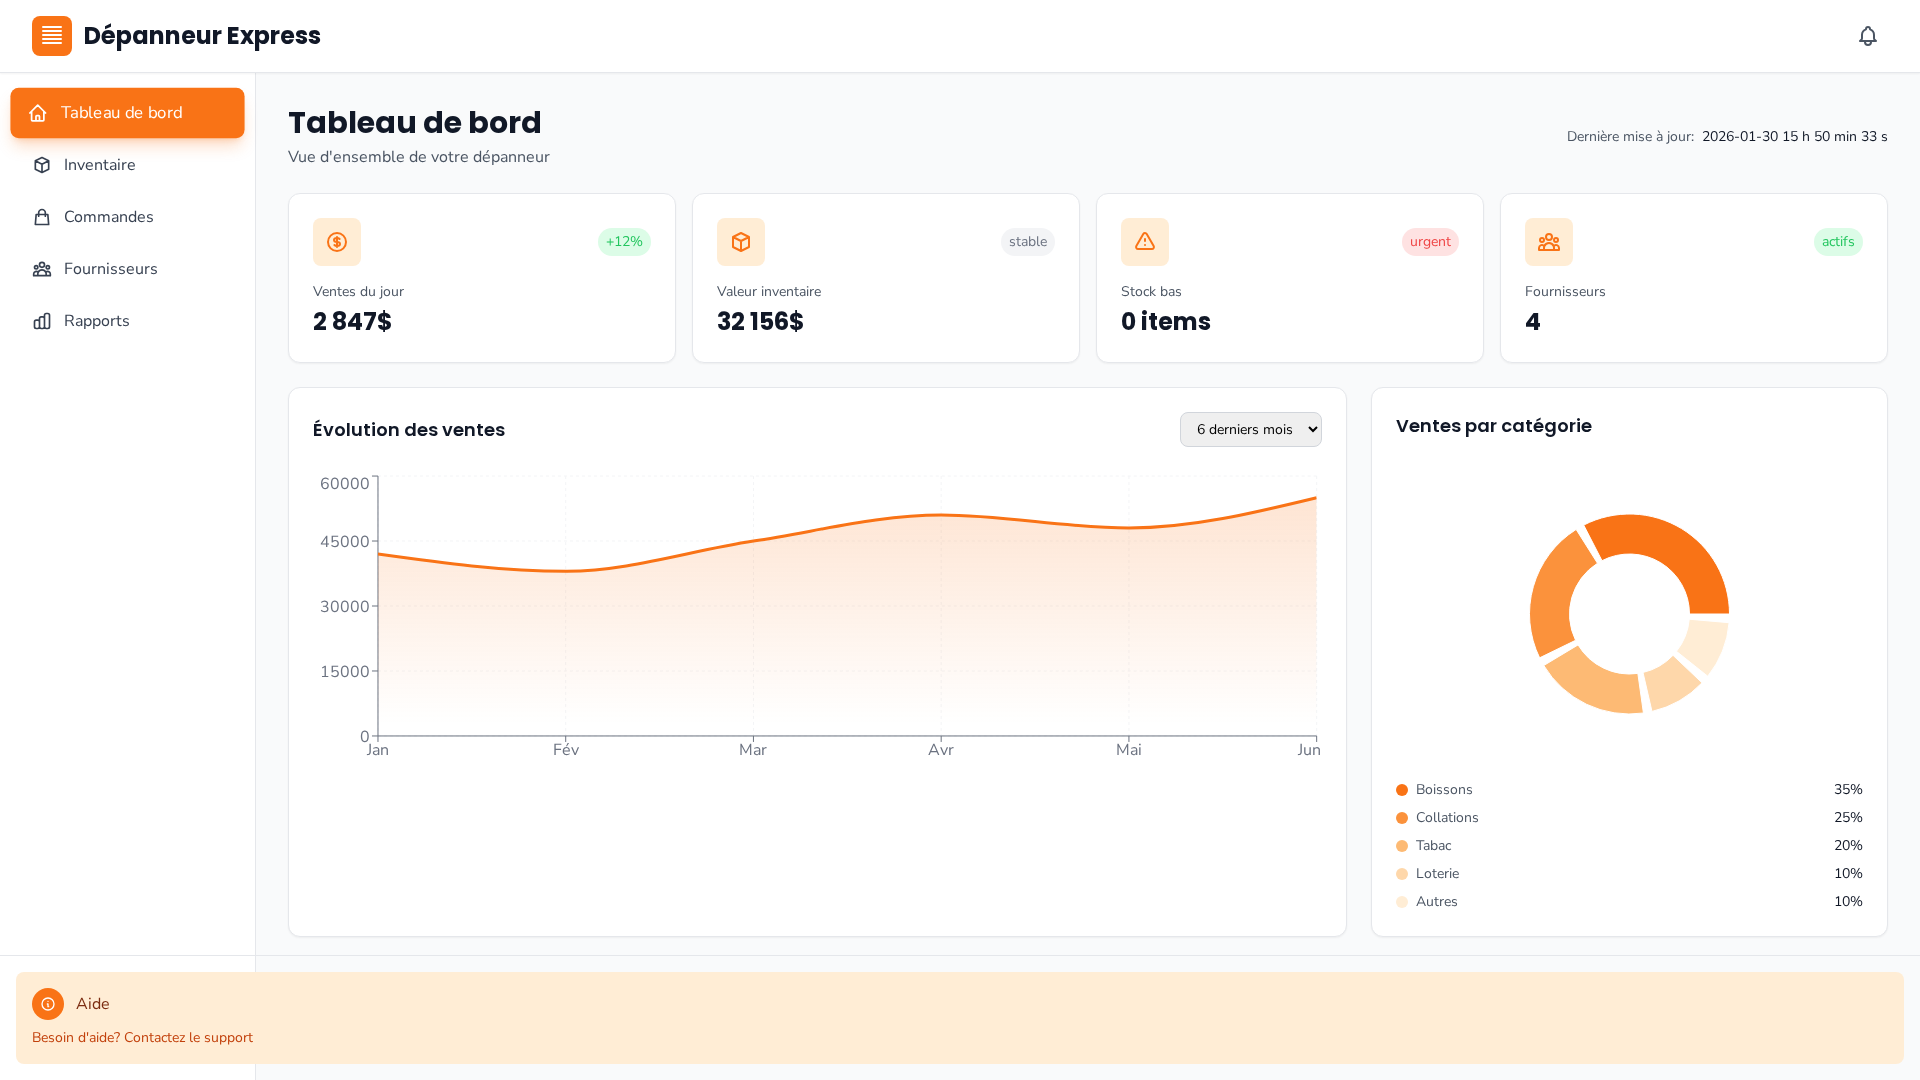
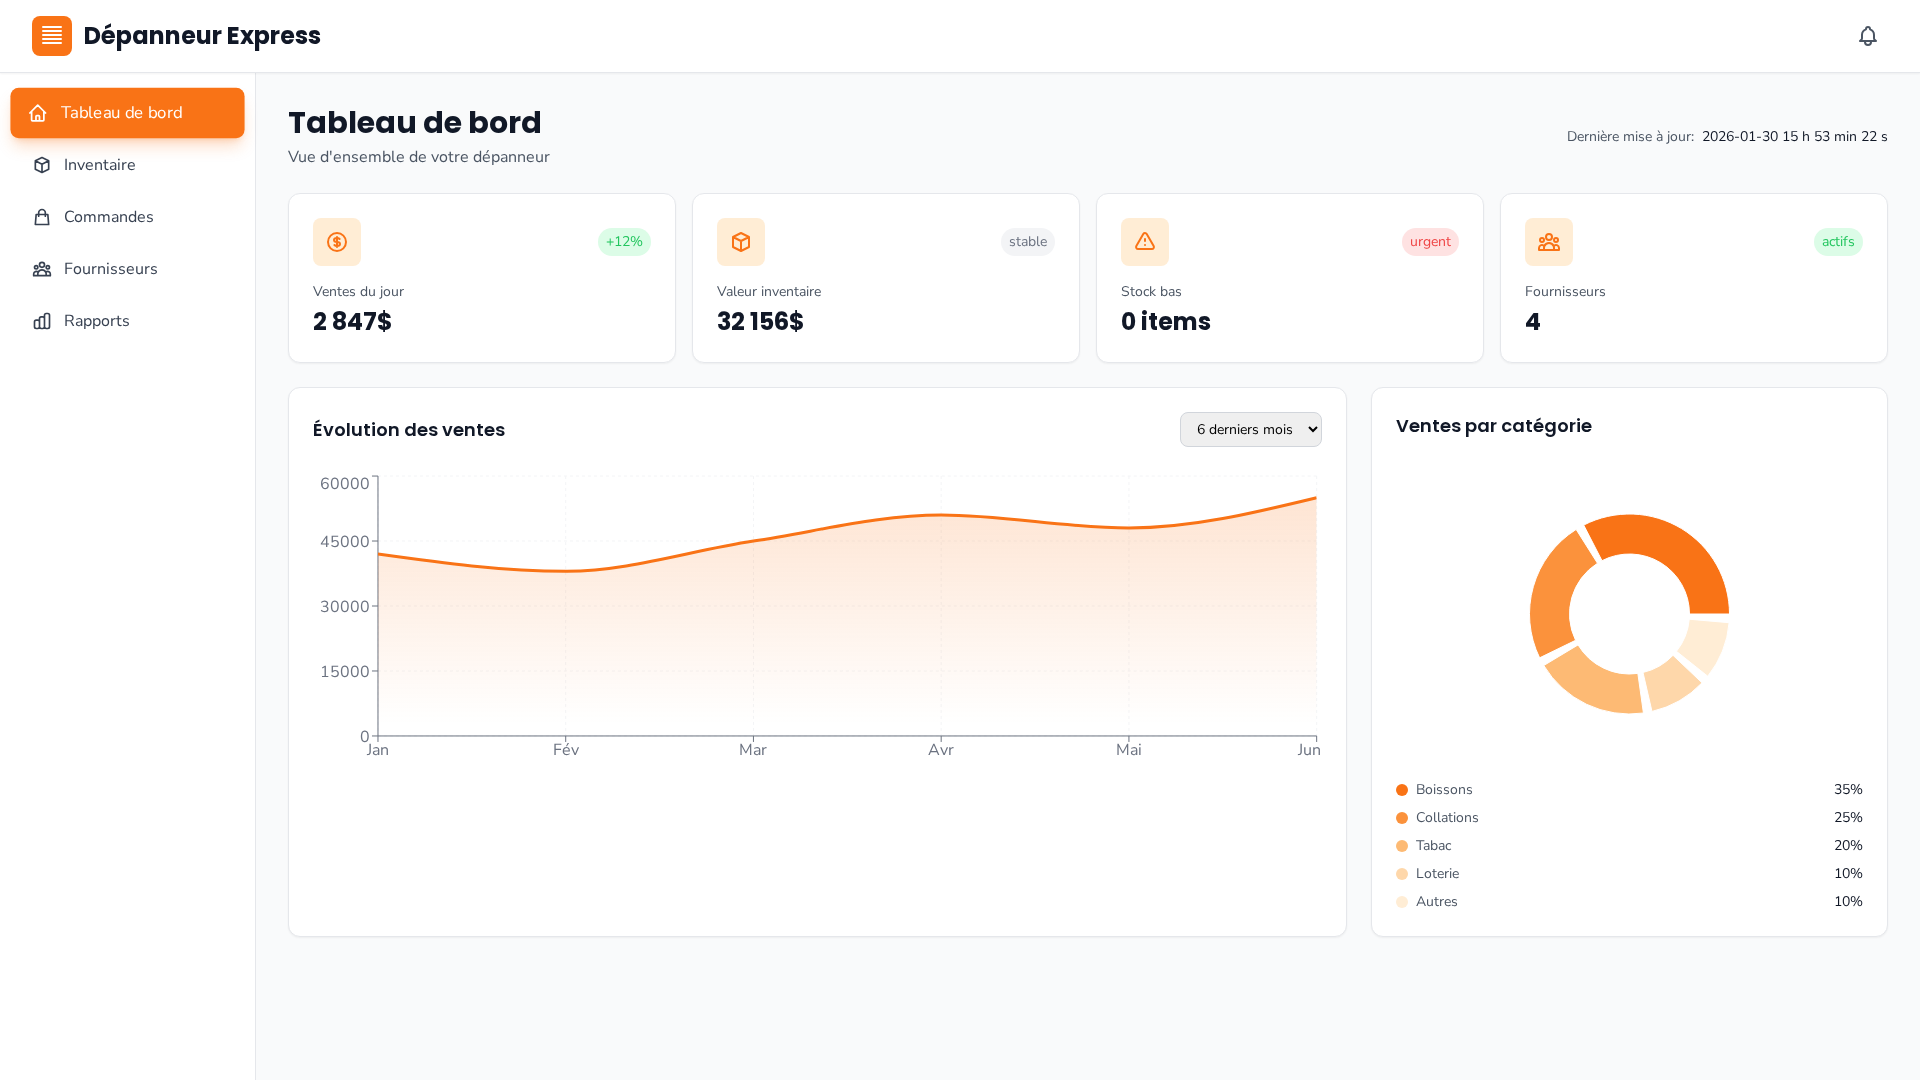
feat(prototype): enleve a bulle d'Aide
Comment by: Somtech Solution
Feedback ID: 8a46749d-2286-4baf-a1c0-32a67e279e68
Auto-generated by Claude Code

Changed region(s): [[0.0, 0.8861, 1.0, 1.0]]

diff --git a/index.html b/index.html
@@ -280,20 +280,6 @@
                   Rapports
                 </button>
               </nav>
-
-              <div className="absolute bottom-0 left-0 right-0 p-4 border-t border-gray-200">
-                <div className="bg-orange-100 rounded-lg p-4">
-                  <div className="flex items-center gap-3 mb-2">
-                    <div className="w-8 h-8 bg-orange-500 rounded-full flex items-center justify-center">
-                      <svg className="w-4 h-4 text-white" fill="none" stroke="currentColor" viewBox="0 0 24 24">
-                        <path strokeLinecap="round" strokeLinejoin="round" strokeWidth={2} d="M13 16h-1v-4h-1m1-4h.01M21 12a9 9 0 11-18 0 9 9 0 0118 0z" />
-                      </svg>
-                    </div>
-                    <span className="font-medium text-orange-900">Aide</span>
-                  </div>
-                  <p className="text-sm text-orange-700">Besoin d'aide? Contactez le support</p>
-                </div>
-              </div>
             </aside>
 
             {/* Mobile Bottom Navigation */}

diff --git a/PRD.md b/PRD.md
@@ -16,6 +16,13 @@ app de gestion d'inventaire de depanneur
 
 ## Historique des modifications
 
+### 2026-01-30 - Modification
+**Demande:** enleve a bulle d'Aide
+**Specs:** Suppression de la bulle d'aide dans la sidebar gauche
+**Complexité:** simple
+**Livrables:** Suppression bulle d'aide orange dans sidebar gauche
+
+
 
 ### 2026-01-30 - Modification
 **Demande:** active les bouton de modification dans l'invenatire
